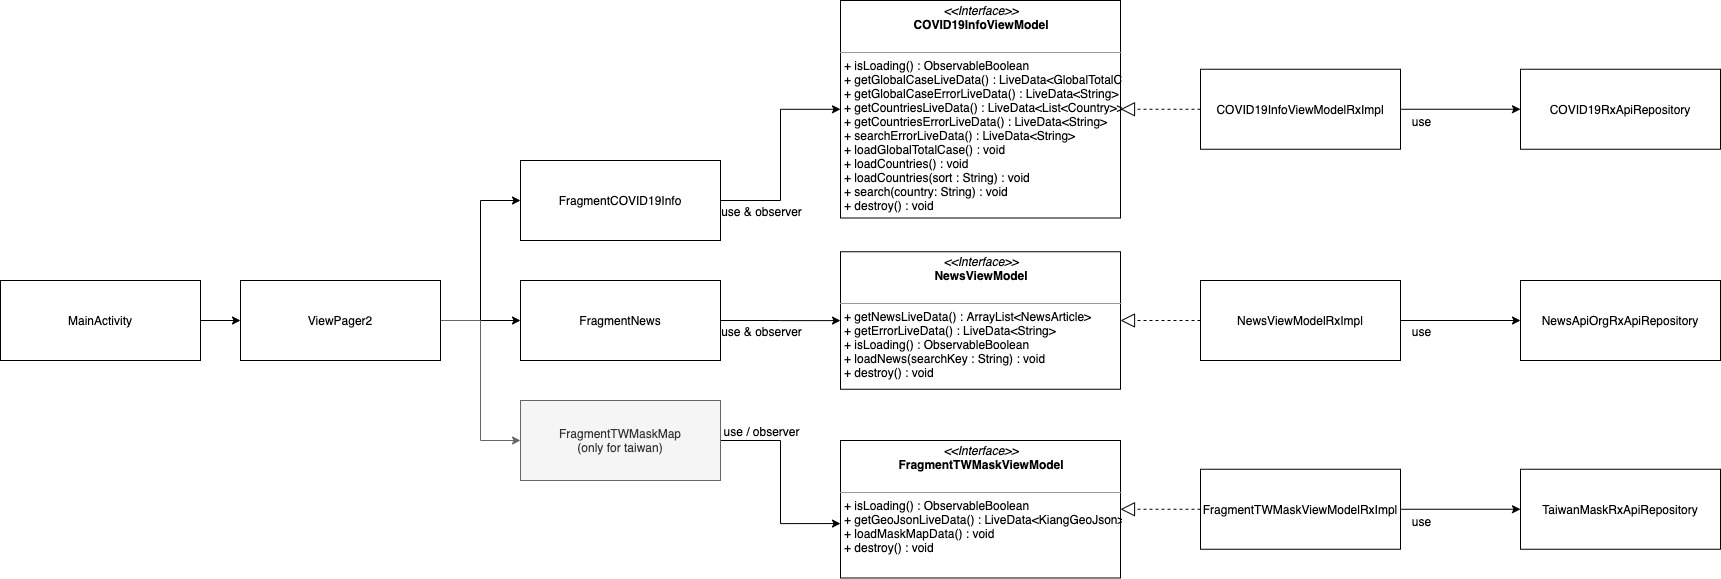
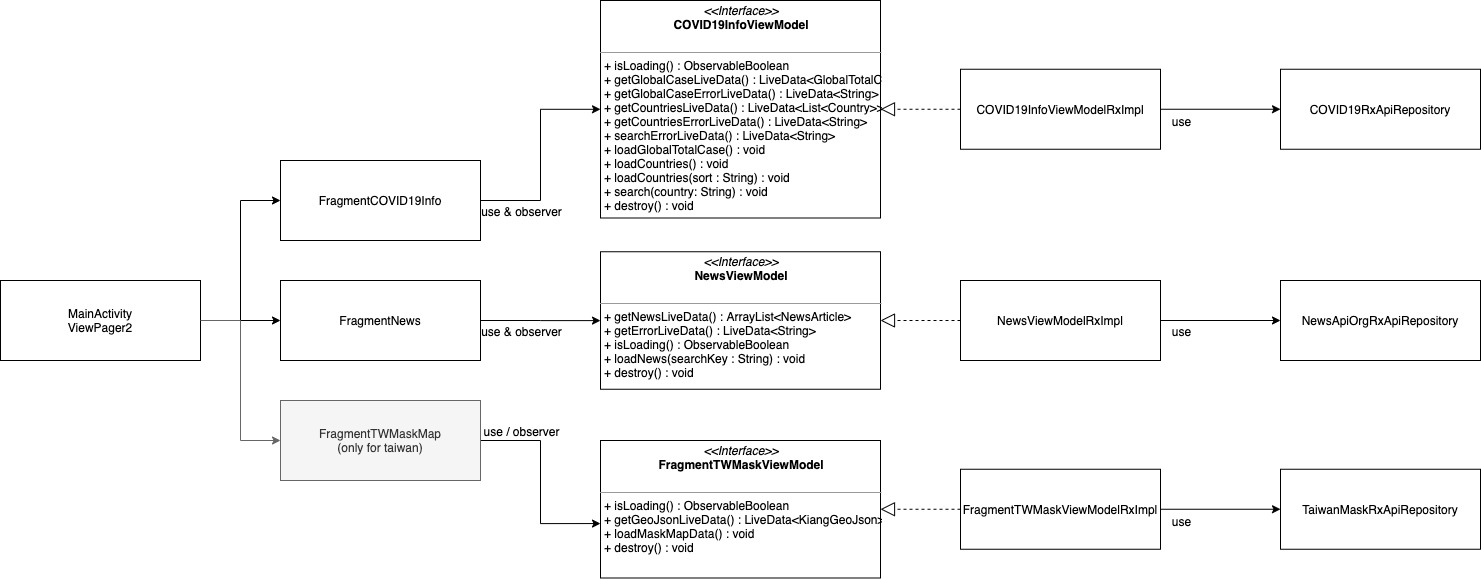
DESC : 1. update structure picture & README.md

diff --git a/README.md b/README.md
@@ -13,6 +13,10 @@
 # Preview
 ![GitHub](https://github.com/KenSun2018/NovelCovid19Report/blob/master/screenshots/COVID19.gif "preview")
 
+# Structure
+![GitHub](https://github.com/KenSun2018/NovelCovid19Report/blob/master/screenshots/structure.jpg "structure")
+
+
 # Library
 * [Retrofit2](https://square.github.io/retrofit/)
 * [Rxjava2](https://github.com/ReactiveX/RxJava/tree/2.x)
